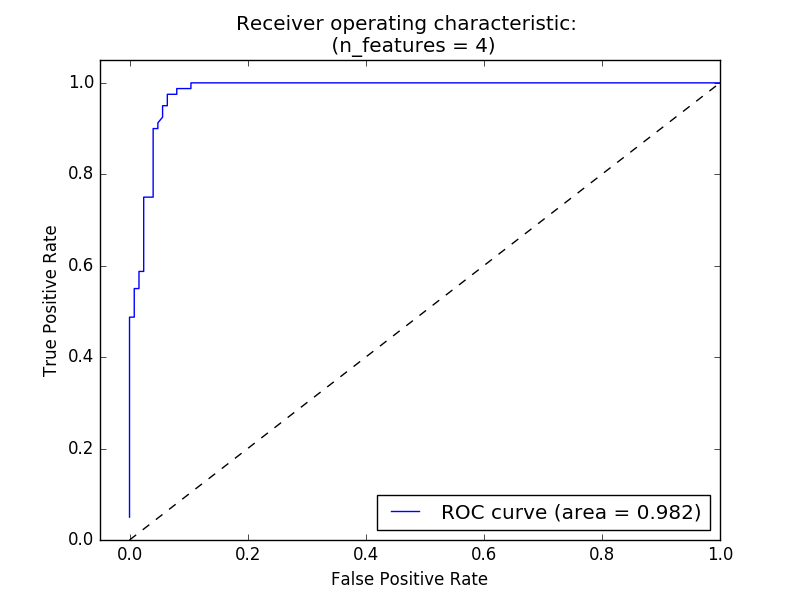
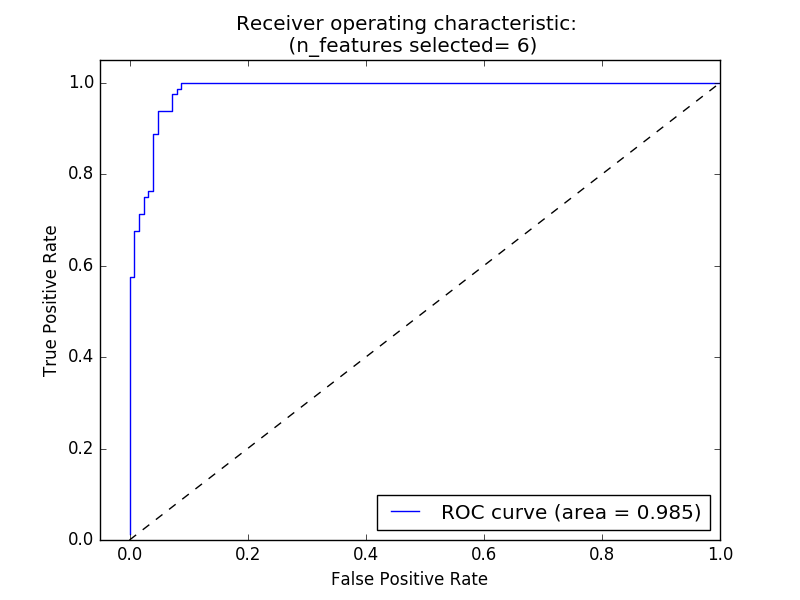
Final draft of Flask Machine Learning assignment -- added docstrings to functions

diff --git a/api/views.py b/api/views.py
@@ -18,30 +18,35 @@ from sklearn.linear_model import LogisticRegression
 
 
 def get_abs_path():
+    """
+    This function takes no parameters and returns the api root directory pathway.
+    :return: api directory pathway
+    """
     return os.path.abspath(os.path.dirname(__file__))
 
 
 def get_data():
-    f_name = os.path.join(get_abs_path(), 'data', 'breast-cancer-wisconsin.csv')
-    # f_name = os.path.join(
-    #     os.path.abspath(os.path.dirname(__file__)),
-    #         'data',
-    #         'breast-cancer-wisconsin.csv'
-    #     )
+    """
+    This functions takes no parameters, reads in the CSV file and returns it as a pandas Data Frame. The function
+    drops any rows with missing values and converts the class into a binary classification (0, 1).
+    :return: pandas Data Frame
+    """
+    f_name = os.path.join(get_abs_path(), 'data', 'breast-cancer-wisconsin.csv') #path to CSV file
+    #Create pandas Data Frame from CSV
     columns = ['code', 'clump_thickness', 'size_uniformity', 'shape_uniformity',
                'adhesion', 'cell_size', 'bare_nuclei', 'bland_chromatin',
                'normal_nuclei', 'mitosis', 'class']
 
-    conv= lambda x: 1 if int(x)==4 else 0
+    conv= lambda x: 1 if int(x)==4 else 0 #converts class into binary ( 0:benign(2), 1: malignant(4) )
     df = pd.read_csv(f_name, sep=',', header=None, names=columns, na_values='?', converters={10:conv})
     return df.dropna()
 
 
 def get_numpy(DataFrame):
     """
-
-    :param DataFrame:
-    :return:
+    This function takes one parameter, a pandas DataFrame, and returns the object as a Numpy array.
+    :param DataFrame: pandas DataFrame of data
+    :return: Numpy array of data
     """
     data = DataFrame.as_matrix()
     return data
@@ -49,9 +54,10 @@ def get_numpy(DataFrame):
 
 def partition(data):
     """
-
-    :param data:
-    :return:
+    This function takes one parameter, a numpy array of data, and partitions the array into Train/Test sets. The function
+    will return a tuple of the partitioned data set.
+    :param data: numpy array of data
+    :return: tuple of partitioned data (X_train, X_test, y_train, y_test)
     """
     # data = data.astype(np.float64)
     data_train, data_test = train_test_split(data, random_state=2, test_size=0.30)
@@ -67,10 +73,11 @@ def partition(data):
 
 def scale(X_train, X_test):
     """
-
-    :param X_train:
-    :param X_test:
-    :return:
+    This function takes two parameters, the Training & Testing samples/features and returns the respective normalized/scaled
+    versions.
+    :param X_train: Training set samples
+    :param X_test: Testing set samples
+    :return: tuple of normalized/scaled Training & Testing sets samples
     """
     scaler = MinMaxScaler().fit(X_train) #scaler object fitted on training set of samples
     scaled_X_train = scaler.transform(X_train) #transformed normalized data - Training set samples
@@ -80,16 +87,18 @@ def scale(X_train, X_test):
 
 def feature_select(X_train, X_test, y_train, n_feat):
     """
-
-    :param X_train:
-    :param X_test:
-    :param y_train:
-    :param n_feat:
-    :return:
+    This function takes four parameters, numpy arrays of Training set samples, Testing set samples, training set labels,
+    and number of features to select/reduce to. The function will perform univariate feature selection using sklearn.feature_selection.SelectKBest
+    and a score function. The function will return a tuple of reduced Training set and Testing set samples as well as scores
+    and p-values.
+    :param X_train: Training set samples
+    :param X_test: Testing set samples
+    :param y_train: Training set labels
+    :param n_feat: number of features to select
+    :return: tuple of selected Training set samples, selected Testing set samples, scores, and p-values
     """
     # univariate feature selection
     score_func = SelectKBest(chi2, k=n_feat).fit(X_train, y_train)  # k = # features
-
     select_X_train = score_func.transform(X_train)  # transform feature selection/reduction on training set samples
     select_X_test = score_func.transform(X_test)  # transform feature selection/reduction on testing set samples
 
@@ -99,12 +108,21 @@ def feature_select(X_train, X_test, y_train, n_feat):
 
 
 def gridsearch(X_train, X_test, y_train):
+    """
+    This function takes three parameters, Training set samples, Testing set samples, and Training set labels. The function
+    will determine the optimal parameters of the best classifier model/estimator by performing a grid search. The best model
+    will be fitted with the Training set and subsequently applied on the Testing set for predictions.
+
+    :param X_train: Training set samples
+    :param X_test:  Testing set samples
+    :param y_train: Trainig set labels
+    :return: tuple of Best Classifier instance, Best Classifier predictions (y_pred), dictionary of optimal parameters, and grid score
+    """
     # Setup Parameter Grid -- dictionary of parameters -- map parameter names to values to be searched
     param_grid = [
         {'C': [0.01, 0.1, 1, 10, 100, 1000], 'fit_intercept': [True, False], 'penalty': ['l2'], 'solver': ['newton-cg', 'lbfgs', 'liblinear', 'sag']},
         {'C': [0.01, 0.1, 1, 10, 100, 1000], 'fit_intercept': [True, False], 'penalty': ['l1'], 'solver': ['liblinear']}
     ]
-
 
     # Create "blank" clf instance
     blank_clf = LogisticRegression(random_state=2)
@@ -121,8 +139,17 @@ def gridsearch(X_train, X_test, y_train):
 
 
 def clf(X_train, X_test, y_train):
+    """
+    This function takes three parameters, Training set samples, Testing set samples, and Training set labels. The function
+    serves as a convenience function and instantiates the model with optimal parameters (previously identified by a grid search).
+    The classifier model is applied on the Testing set for classification preductions.
+
+    :param X_train: Training set samples
+    :param X_test:  Testing set samples
+    :param y_train: Training set labels
+    :return: tuple of fitted classifier instance and classifier predictions (y_pred)
+    """
     model = LogisticRegression(penalty= 'l2', C= 1, solver= 'liblinear', fit_intercept= True) #best param determined by gridsearch
-    # model = svm.SVC()
     model = model.fit(X_train, y_train) #Fit classifier to Training set
     y_pred = model.predict(X_test) # Test classifier on Testing set
     return (model, y_pred)
@@ -130,7 +157,7 @@ def clf(X_train, X_test, y_train):
 
 def sensitivity(model_pred, target):
     """
-    This function takes two parameters, arrays of the model's classification prediction and true target/labels.
+    This function takes two parameters, numpy array of the model's classification prediction and true target/labels.
     Given these inputs, the function will calculate and return the sensitivity value of the classification as a float.
 
     :param model_pred: classifier model's classification prediction
@@ -153,7 +180,7 @@ def sensitivity(model_pred, target):
 
 def specificity(model_pred, target):
     """
-    This function takes two parameters, arrays of the model's classification prediction and true target/labels.
+    This function takes two parameters, numpy array of the model's classification prediction and true target/labels.
     Given these inputs, the function will calculate and return the specificity of the classification as a float.
 
     :param model_pred: classifier model's classification prediction
@@ -177,7 +204,7 @@ def specificity(model_pred, target):
 
 def accuracy(model_pred, target):
     """
-    This function takes two parameters, arrays of the model's classification prediction and true target/labels.
+    This function takes two parameters, numpy array of the model's classification prediction and true target/labels.
     Given these inputs, the function will calculate and return the accuracy value of the classification as a float.
 
     :param model_pred: classifier model's classification prediction
@@ -190,7 +217,7 @@ def accuracy(model_pred, target):
 
 def precision(model_pred, target):
     """
-    This function takes two parameters, arrays of the model's classification prediction and true target/labels.
+    This function takes two parameters, numpy array of the model's classification prediction and true target/labels.
     Given these inputs, the function calculates and returns the precision value of the classification as a float.
 
     :param model_pred: classifier model's classification prediction
@@ -205,7 +232,7 @@ def precision(model_pred, target):
 
 def recall(model_pred, target):
     """
-    This function takes two parameters, arrays of the model's classification prediction and true target/labels.
+    This function takes two parameters, numpy array of the model's classification prediction and true target/labels.
     Given these inputs, the function calculates and returns the recall value of the classification as a float.
 
     :param model_pred: classifier model's classification prediction
@@ -224,7 +251,7 @@ def auc(model, X_test, target):
     Given these inputs, the area under the (ROC) curve will be returned based on the decision function (y_score).
 
     :param model: fitted classifier model
-    :param X_test: testing set samples/features
+    :param X_test: testing set samples
     :param target: True target/labels (y_test)
     :return: AUC score
     """
@@ -237,12 +264,12 @@ def auc(model, X_test, target):
 
 def plot_roc(model, X_test, target, n_features):
     """
-    This function takes four parameters, the fitted classification model, samples test set, target/labels test set,
+    This function takes four parameters, the fitted classification model, Testing set samples, target/labels test set,
     and number of features. Given these inputs, matplotlib will be used to plot the ROC curve of the classifier.
     The function will return the figure of the plot.
 
     :param model: fitted classification model
-    :param X_test: samples/features test set (X_test)
+    :param X_test: Testing set samples
     :param target: true target/labels (y_test)
     :param n_features: int indicating number of features of data set
     :return: Plot of ROC curve
@@ -260,14 +287,12 @@ def plot_roc(model, X_test, target, n_features):
     plt.xlabel('False Positive Rate')
     plt.ylabel('True Positive Rate')
     plt.legend(loc="lower right")
-    plt.title('Receiver operating characteristic: \n (n_features = %d)' % (n_features))
+    plt.title('Receiver operating characteristic: \n (n_features selected= %d)' % (n_features))
     return fig
 
 
 @app.route('/')
 def index():
-    # b=2
-    # return "Hello, I'm an API!"
     df=get_data()
     X=df.ix[:, (df.columns != 'class') & (df.columns != 'code')].as_matrix() #as_matrix() pandas method to return data as matrix/np array
     y=df.ix[:, df.columns=='class'].as_matrix()
@@ -314,7 +339,7 @@ def index():
 @app.route('/d3')
 def d3():
     df = get_data()
-    X = df.ix[:, (df.columns != 'class') & (df.columns != 'code')].as_matrix() #as_matrix() pandas method to return data as matrix/np array
+    X = df.ix[:, (df.columns != 'class') & (df.columns != 'code')].as_matrix()
     y = df.ix[:, df.columns == 'class'].as_matrix()
     # Scale
     scaler = preprocessing.StandardScaler().fit(X)
@@ -337,58 +362,56 @@ def d3():
                            data_file=url_for('static',
                                              filename='tmp/kmeans.csv'))
 
+
 @app.route('/bar')
 def bar():
-
-
-    # conv= lambda x: "malignant" if int(x)==4 else "benign"
-    # df = pd.read_csv(f_name, sep=',', header=None, names=columns, na_values='?', converters={10:conv})
-    df = get_data()
-    data = df.ix[:, df.columns != 'code'].as_matrix()
+    df = get_data() #obtain DataFrame of data from CSV
+    data = df.ix[:, df.columns != 'code'].as_matrix() #convert DataFrame to Numpy array
+    #Filter data by class labels
     cls = data[:, -1]
     class_0 = data[cls==0]
     class_1 = data[cls==1]
+    #Calculate Average for each Descriptor -- Grouped by classification
     avg_0 = np.average(class_0, axis=0)
     avg_1 = np.average(class_1, axis=0)
     avg_data = np.vstack((avg_0, avg_1))
-    avg_data = avg_data.transpose()
-    X = avg_data[:-1,:]
-    y = avg_data[-1,:]
+    avg_data = avg_data.transpose() #tranpose data
+    #Isolate Features from Outcomes
+    X = avg_data[:-1,:] #features
+    y = avg_data[-1,:] #outcomes
+    #Create array for plot labelling purposes
     descriptors = np.array(['clump_thickness', 'size_uniformity', 'shape_uniformity',
                'adhesion', 'cell_size', 'bare_nuclei', 'bland_chromatin',
                'normal_nuclei', 'mitosis']).transpose()
+    #Create pandas DataFrame from Numpy array
     class_df = pd.DataFrame({'benign': X[:, 0],
                              'malignant': X[:, 1],
                              'descriptors': descriptors})
 
-    # class_df = pd.DataFrame({'label':avg_data[:,9],
-    #                          'clump_thickness':avg_data[:,0],
-    #                          'size_uniformity':avg_data[:,1],
-    #                          'shape_uniformity':avg_data[:,2],
-    #                          'adhesion':avg_data[:,3],
-    #                          'cell_size':avg_data[:,4],
-    #                          'bare_nuclei':avg_data[:,5],
-    #                          'bland_chromatin':avg_data[:,6],
-    #                          'normal_nuclei':avg_data[:,7],
-    #                          'mitosis':avg_data[:,8]})
-
-    bar_path = os.path.join(get_abs_path(), 'static', 'tmp', 'breast_cancer_bar.csv')
-    class_df.to_csv(bar_path, index=False)
+    bar_path = os.path.join(get_abs_path(), 'static', 'tmp', 'breast_cancer_bar.csv') #save new CSV file at bar_path
+    class_df.to_csv(bar_path, index=False) #DataFrame to CSV file in static/tmp
     return render_template('bar.html', d_file=url_for('static',
                                                filename='tmp/breast_cancer_bar.csv'))
 
 
 @app.route('/prediction')
 def prediction():
-    pd_df = get_data()
-    data = get_numpy(pd_df)
+    #Obtain data
+    pd_df = get_data() #obtain DataFrame of data from CSV
+    data = get_numpy(pd_df) #convert DataFrame to Numpy array
+
+    #Partition Data into Train-Test sets (70/30)
     X_train, X_test, y_train, y_test = partition(data)
+    #Scale/Normalize Data
     scaled_X_train, scaled_X_test = scale(X_train, X_test)
+    #Feature Selection - n_features=6
     select_X_train, select_X_test, score, pval = feature_select(scaled_X_train, scaled_X_test, y_train, n_feat=6)
 
+    #Classifier Model
     best_est, y_pred, best_params, score = gridsearch(select_X_train, select_X_test, y_train)
     model = best_est
-    # model, y_pred = clf(select_X_train, select_X_test, y_train)
+    # model, y_pred = clf(select_X_train, select_X_test, y_train) #convenience clf instantiation -- after grid search
+    #Metrics
     # acc = accuracy(y_pred, y_test)
     # sens = sensitivity(y_pred, y_test)
     # spec = specificity(y_pred, y_test)
@@ -397,14 +420,16 @@ def prediction():
     # area = auc(model, select_X_test, y_test)
     # print acc, sens, spec, prec, rec, area
 
+    #Pass Variable to prediction_confusion_matrix -- flask.session
     # cm=metrics.confusion_matrix(y_test, y_pred)
     # cm_dict = {'fp': cm[0,1], 'tp': cm[1,1], 'fn': cm[1,0], 'tn': cm[0,0]}
     # session['cm'] = cm_dict
 
+    #Plot ROC Curve
     fig=plot_roc(model, select_X_test, y_test, 6)
 
     # Save fig
-    fig_path = os.path.join(get_abs_path(), 'static', 'tmp', 'roc.png')
+    fig_path = os.path.join(get_abs_path(), 'static', 'tmp', 'roc.png') #path to save fig
     fig.savefig(fig_path)
     return render_template('prediction.html',
                            fig=url_for('static',
@@ -413,19 +438,26 @@ def prediction():
 
 @app.route('/api/v1/prediction_confusion_matrix')
 def prediction_confusion_matrix():
+    #Obtain data
+    pd_df = get_data() #DataFrame
+    data = get_numpy(pd_df) #convert to Numpy array
 
-    pd_df = get_data()
-    data = get_numpy(pd_df)
+    #Partition Data into Train-Test sets (70/30)
     X_train, X_test, y_train, y_test = partition(data)
+    #Scale/Normalize Data
     scaled_X_train, scaled_X_test = scale(X_train, X_test)
+    #Feature Selection - n_features=6
     select_X_train, select_X_test, score, pval = feature_select(scaled_X_train, scaled_X_test, y_train, n_feat=6)
+
+    #Classifier Model
     best_est, y_pred, best_params, score = gridsearch(select_X_train, select_X_test, y_train)
     model = best_est
-    cm=metrics.confusion_matrix(y_test, y_pred)
-    cm_dict = {'fp': cm[0,1], 'tp': cm[1,1], 'fn': cm[1,0], 'tn': cm[0,0]}
 
-    # cm_dict = session.pop('cm')
-    model_cm = {'logistic regression': cm_dict}
+    #Confusion Matrix
+    cm=metrics.confusion_matrix(y_test, y_pred) #confusion matrix
+    cm_dict = {'fp': cm[0,1], 'tp': cm[1,1], 'fn': cm[1,0], 'tn': cm[0,0]} #dictionary of confusion matrix key-value pairs
+    # cm_dict = session.pop('cm') #retrieve passed variables between routes
+    model_cm = {'logistic regression': cm_dict} #key-value pair between model and dict of confusion matrix -- to JSON
     return jsonify(model_cm)
 
 
@@ -435,5 +467,4 @@ def head(): #head - function to access url
     data = json.loads(df.to_json()) #exports data frame as json string --> load/parsed json into python object (dict or lsit)
     return jsonify(data)
 
-
-app.secret_key = 'secret!key'
+# app.secret_key = 'secret!key' #flask/session

diff --git a/api/__init__.py b/api/__init__.py
@@ -3,3 +3,4 @@ from flask import Flask
 app = Flask(__name__) # Holds the Flask instance
 from api import views
 
+
